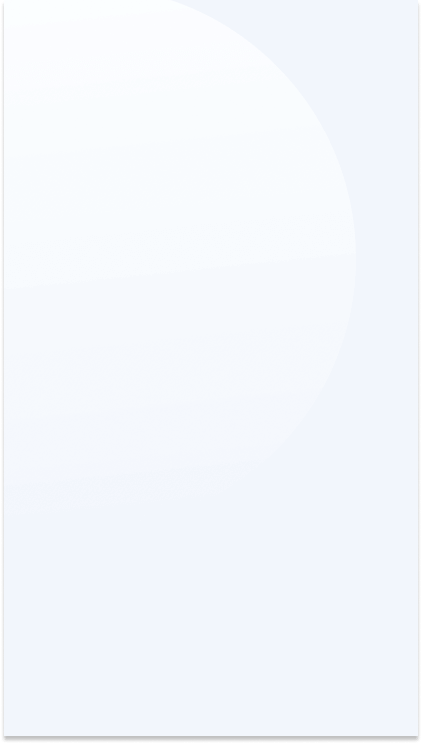
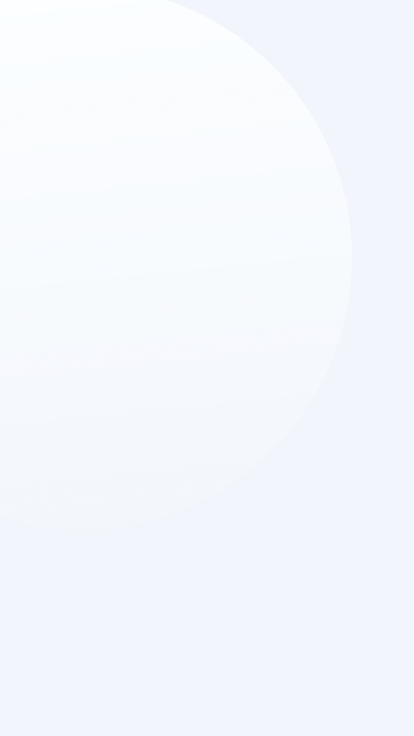
Removes background shadow

Changed region(s): [[0.0, 0.9688, 0.9855, 1.0]]

diff --git a/screens/meeting/ListMeetingScreen.js b/screens/meeting/ListMeetingScreen.js
@@ -2,12 +2,13 @@ import React from 'react';
 import {View, Text, StyleSheet} from 'react-native';
 import CustomHeaderButton from '../../components/ui/HeaderButton';
 import { HeaderButtons, Item } from 'react-navigation-header-buttons';
+import Background from '../../components/Background';
 
 const ListMeetingScreen = (props) =>{
     return(
-        <View>
-            <Text>List Meetings</Text>
-        </View>
+        <Background>
+            <Text>List Meetings!</Text>
+        </Background>
     );
 };
 
